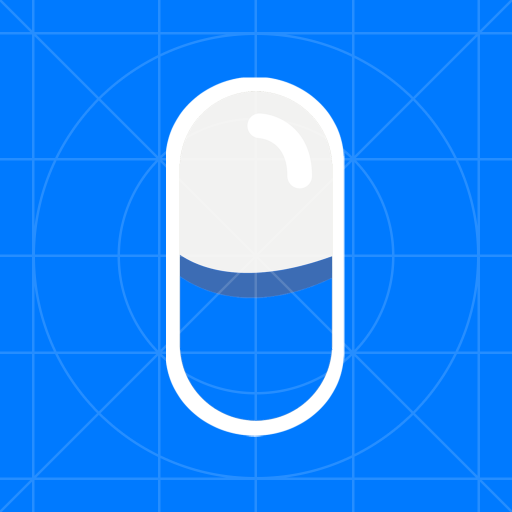
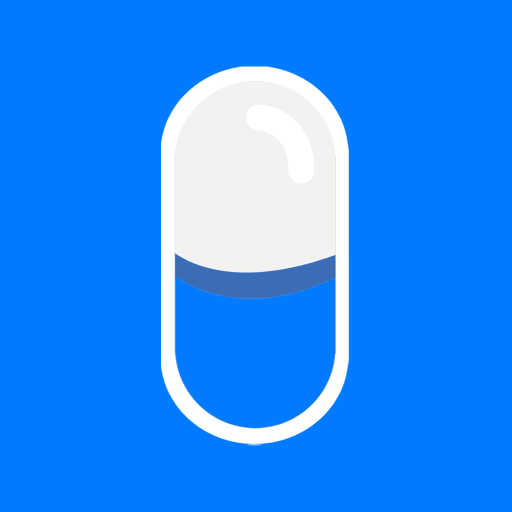
发布准备
更换 codepush 更新方式为下次启动更新
更换 codepush key
更换 图标
更换 about logo

diff --git a/index.ios.js b/index.ios.js
@@ -22,13 +22,13 @@ class tp_react_native extends Component {
     componentDidMount() {
         fc.init();
         AppState.addEventListener('change', this.handleAppStateChange);
-        CodePush.sync({installMode: CodePush.InstallMode.ON_NEXT_RESUME});
+        CodePush.sync();
         this.initFabric().done();
     }
 
     handleAppStateChange(appState) {
         if (appState === 'active') {
-            CodePush.sync({installMode: CodePush.InstallMode.ON_NEXT_RESUME});
+            CodePush.sync();
         }
     }
 
